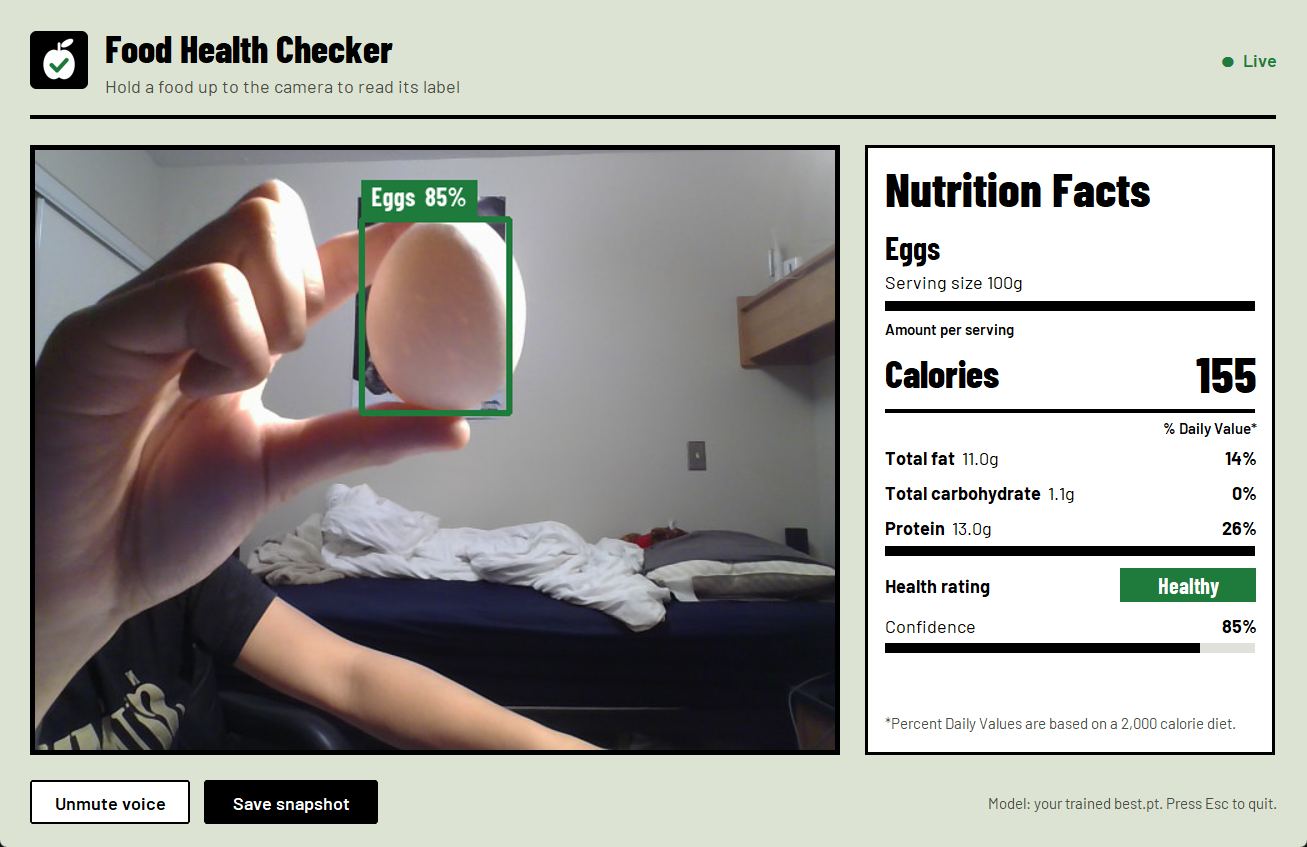
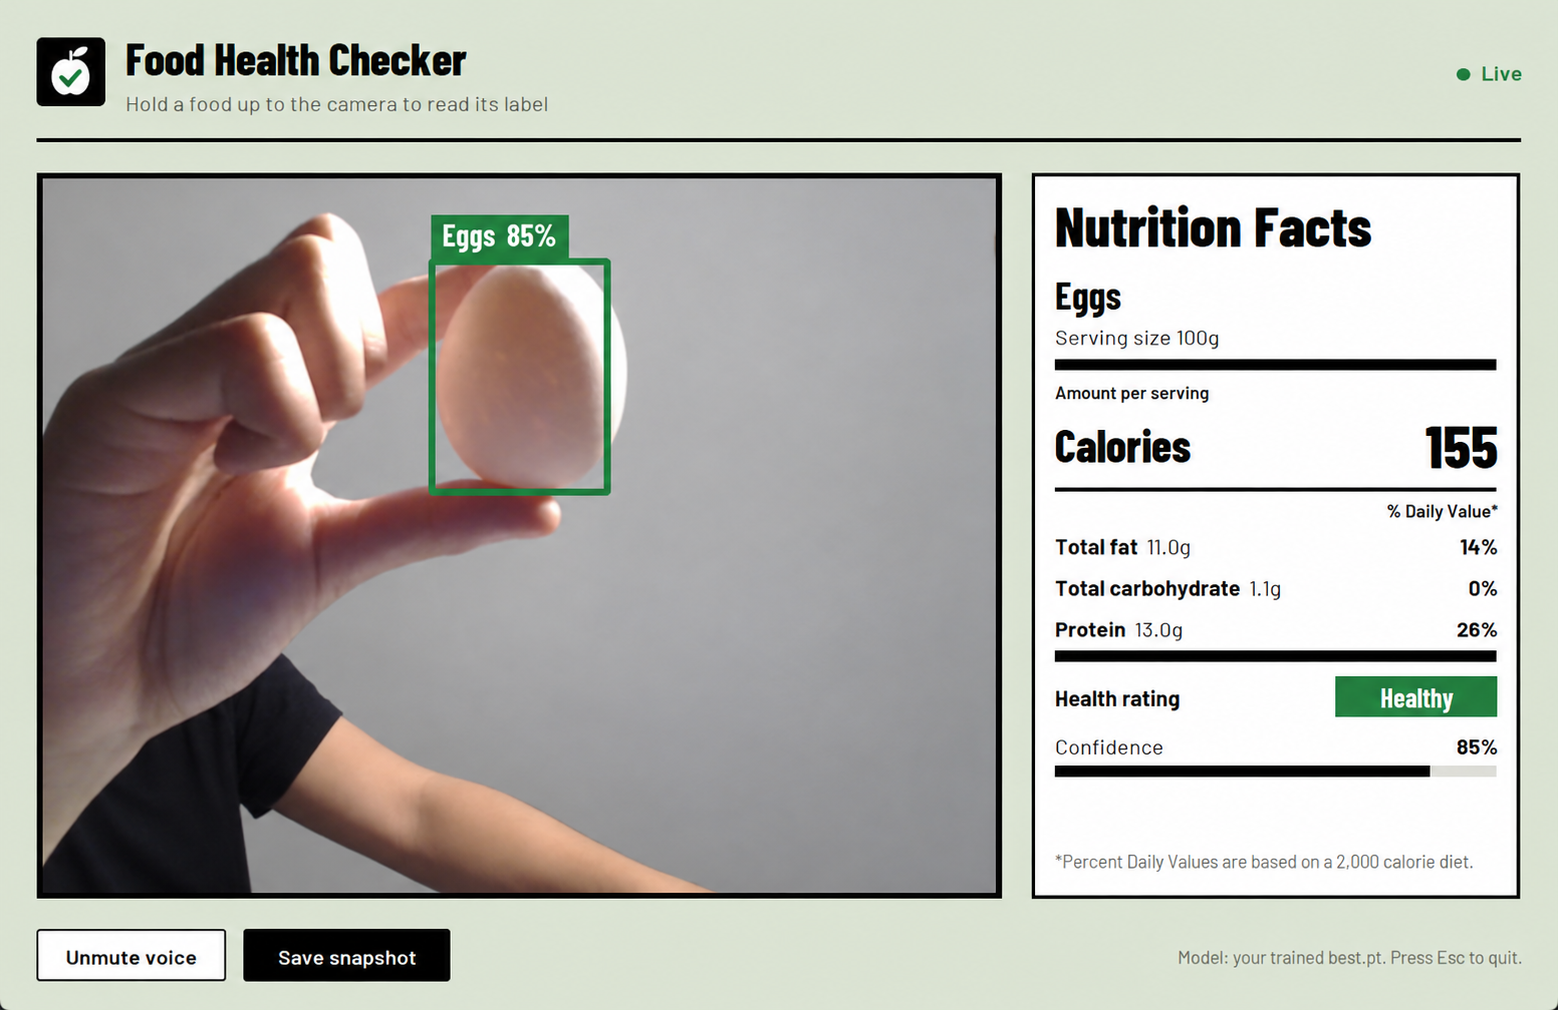
Change proj photo

diff --git a/src/ProjectPhotos.tsx b/src/ProjectPhotos.tsx
@@ -1,5 +1,5 @@
-export function ProjectPhotos({ title }: { title: string }) {
-  if (title === 'Computer Vision Food Recognition & Nutritional Analysis') return <section className="project-photo-section project-media-section" aria-label="Food Health Checker demo"><h2>Food Health Checker</h2><figure className="project-media-figure"><a href="/projects/food-health/food-health-checker.png" target="_blank" rel="noreferrer" aria-label="Open Food Health Checker screenshot"><img src="/projects/food-health/food-health-checker.png" alt="Food Health Checker detecting an egg with 85 percent confidence and displaying its nutrition facts beside the webcam feed" width="1307" height="847" loading="lazy"/></a><figcaption>Live webcam food detection with a confidence score and a nutrition panel for the recognized food</figcaption></figure><h2>Live detection demo</h2><figure className="project-media-figure"><video id="food-health-demo" controls playsInline preload="none" poster="/projects/food-health/food-health-checker.png" aria-label="Food Health Checker demonstration video"><source src="/projects/food-health/food-health-checker-demo.mp4" type="video/mp4"/>Your browser does not support this video. <a href="/projects/food-health/food-health-checker-demo.mp4">Open the food detection demo</a></video><figcaption>A demonstration recording of the Food Health Checker application</figcaption></figure></section>
+export function ProjectPhotos({ title }: { title: string }) {
+  if (title === 'Computer Vision Food Recognition & Nutritional Analysis') return <section className="project-photo-section project-media-section" aria-label="Food Health Checker demo"><h2>Food Health Checker</h2><figure className="project-media-figure"><a href="/projects/food-health/food-health-checker.png" target="_blank" rel="noreferrer" aria-label="Open Food Health Checker screenshot"><img src="/projects/food-health/food-health-checker.png" alt="Food Health Checker detecting an egg with 85 percent confidence and displaying its nutrition facts beside the webcam feed" width="1558" height="1010" loading="lazy"/></a><figcaption>Live webcam food detection with a confidence score and a nutrition panel for the recognized food</figcaption></figure><h2>Live detection demo</h2><figure className="project-media-figure"><video id="food-health-demo" controls playsInline preload="none" poster="/projects/food-health/food-health-checker.png" aria-label="Food Health Checker demonstration video"><source src="/projects/food-health/food-health-checker-demo.mp4" type="video/mp4"/>Your browser does not support this video. <a href="/projects/food-health/food-health-checker-demo.mp4">Open the food detection demo</a></video><figcaption>A demonstration recording of the Food Health Checker application</figcaption></figure></section>
 
   if (title === 'Emergency Abort System - WARG') return <section className="project-photo-section project-media-section" aria-label="Emergency abort command test"><h2>ABORT command handling test</h2><figure className="project-media-figure"><a href="/projects/emergency-abort/abort-command-handling.png" target="_blank" rel="noreferrer" aria-label="Open emergency abort test logs"><img src="/projects/emergency-abort/abort-command-handling.png" alt="ROS 2 terminal publishing three messages to /commander/abort, with airside logs showing CheckAbort: ABORT received and AbortLand waiting for MAVROS state" loading="lazy"/></a><figcaption>Publishing to /commander/abort triggers CheckAbort and the ground-status message ENG: ABORT received. AbortLand then waits for MAVROS state while the flight-controller connection is unavailable</figcaption></figure></section>
 

diff --git a/src/App.tsx b/src/App.tsx
@@ -76,7 +76,7 @@ function TeamBadge({ name }: { name: string }) {
  return <span className="team-logo-badge"><img src={team === 'WARG' ? '/icons/warg.png' : '/icons/watonomous.png'} alt="" width="36" height="28"/><span>{team}</span></span>
 }
 function ProjectPreview({ title }: { title: string }) {
- if (title === 'Computer Vision Food Recognition & Nutritional Analysis') return <div className="project-image-space website-project-preview food-project-preview"><img src="/projects/food-health/food-health-checker.png" alt="Food Health Checker showing live egg detection and nutrition facts" width="1307" height="847" loading="lazy"/></div>
+ if (title === 'Computer Vision Food Recognition & Nutritional Analysis') return <div className="project-image-space website-project-preview food-project-preview"><img src="/projects/food-health/food-health-checker.png" alt="Food Health Checker showing live egg detection and nutrition facts" width="1558" height="1010" loading="lazy"/></div>
 
  if (title === 'Emergency Abort System - WARG') return <div className="project-image-space website-project-preview abort-project-preview"><div className="abort-cover-crop"><img src="/projects/emergency-abort/abort-command-handling.png" alt="Airside logs receiving an ABORT command and entering abort handling" loading="lazy"/></div></div>
 
